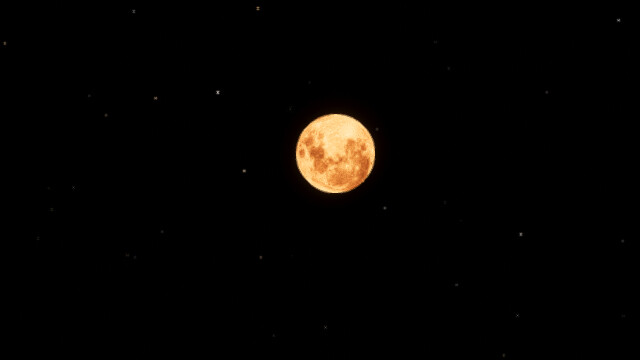
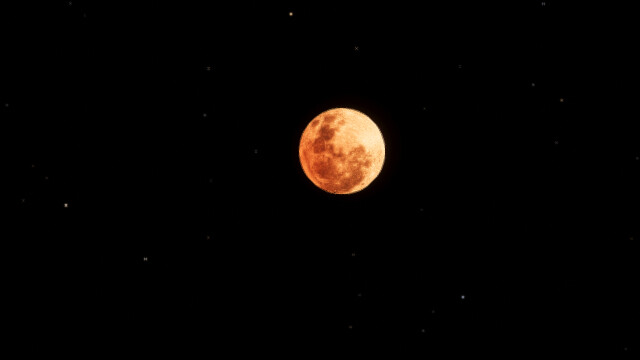
Exposure metering exposes for the centre of the frame (bright edges such as a sunlit limb blow out instead of hiding city lights); external galaxies no longer get the Milky Way's visibility boost; sky photo limited to the galactic band and the Magellanic Clouds; HUD: illuminated fraction, moon phase

Changed region(s): [[0.4375, 0.275, 0.625, 0.55]]

diff --git a/src/ui.js b/src/ui.js
@@ -356,7 +356,17 @@ export class UI {
     if (nav.anchor && nav.altitude < nav.anchor.radius * 30) {
       alt = `<div><b>Altitude</b> ${fmtDist(nav.altitude)} · ${nav.anchor.name}</div>`;
       const ll = this.latLon();
-      if (ll && nav.altitude < nav.anchor.radius * 0.5 && nav.anchor.kind !== 'star') alt += `<div><b>Position</b> ${Math.abs(ll[0]).toFixed(3)}° ${ll[0] >= 0 ? 'N' : 'S'}, ${Math.abs(ll[1]).toFixed(3)}° ${ll[1] >= 0 ? 'E' : 'W'}</div>`;
+      if (ll && nav.altitude < nav.anchor.radius * 0.5 && nav.anchor.kind !== 'star') {
+        alt += `<div><b>Position</b> ${Math.abs(ll[0]).toFixed(3)}° ${ll[0] >= 0 ? 'N' : 'S'}, ${Math.abs(ll[1]).toFixed(3)}° ${ll[1] >= 0 ? 'E' : 'W'}</div>`;
+        const b = nav.anchor, sun = b.system.stars[0];
+        if (sun && b.rotPeriod && b.wrot) {
+          const d = Q.rot(Q.conj(b.wrot), V.norm(V.sub(sun.wpos, b.wpos)));
+          const subLon = Math.atan2(-d[2], d[0]) * 180 / Math.PI;
+          let hr = 12 + ((ll[1] - subLon) * Math.sign(b.rotPeriod)) / 15; hr = ((hr % 24) + 24) % 24;
+          const up = V.norm(V.sub(nav.S, b.wpos)), el = Math.asin(clamp(V.dot(up, V.norm(V.sub(sun.wpos, nav.S))), -1, 1)) * 180 / Math.PI;
+          alt += `<div><b>Local solar time</b> ${String(Math.floor(hr)).padStart(2, '0')}:${String(Math.floor((hr % 1) * 60)).padStart(2, '0')} · sun ${el.toFixed(1)}°</div>`;
+        }
+      }
     }
     if (nav.orbit) { const o = nav.orbit; alt += `<div><b>Orbit</b> ${fmtDist(Math.max(o.peri, 0))} × ${isFinite(o.apo) ? fmtDist(o.apo) : 'escape'} · ${isFinite(o.period) ? (o.period < 7200 ? (o.period / 60).toFixed(1) + ' min' : (o.period / 3600).toFixed(2) + ' h') : ''}</div>`; }
     this.status.innerHTML = `<div><b>${loc}</b></div>${alt}<div><b>Speed</b> ${fmtSpeed(nav.speedNow)} <span class="dim">(set ${fmtSpeed(nav.speed)})</span></div><div class="dim">${Math.round(this.fps)} fps · EV ${(-Math.log2(r.exposure)).toFixed(1)}${r.stats.pending ? ' · loading ' + r.stats.pending : ''}</div>`;
@@ -384,10 +394,26 @@ export class UI {
       else if (t.type === 'star') { const s = t.desc.star; sub = 'Star'; rows = [['Class', s.cls], ['Temperature', Math.round(s.T) + ' K'], ['Mass', (s.mass / C.Msun).toPrecision(3) + ' M<sub>Sun</sub>'], ['Radius', (s.radius / C.Rsun).toPrecision(3) + ' R<sub>Sun</sub>'], ['Luminosity', s.lum.toPrecision(3) + ' L<sub>Sun</sub>'], ['Abs. magnitude', s.MV.toFixed(2)]]; }
       else if (t.type === 'nebula') { const nb = t.neb; sub = ['Emission nebula', 'Planetary nebula', 'Supernova remnant'][nb.type]; rows = [['Diameter', (nb.radius * 2 * 3.2616).toPrecision(3) + ' ly']]; }
       else { const g = t.galaxy; sub = 'Galaxy'; rows = [['Type', g.subtype], ['Diameter', (g.radius * 2 * 3.2616 / 1000).toPrecision(3) + ' kly'], ['Stellar mass', g.mass.toExponential(1) + ' M<sub>Sun</sub>'], ['Stars', '~' + g.nstars.toExponential(1)]]; }
-      this.info.innerHTML = `<h2>${targetName(t)}</h2><div class="sub">${sub}</div><table>${rows.map(r => `<tr><td>${r[0]}</td><td>${r[1]}</td></tr>`).join('')}<tr><td>Distance</td><td id="iDist"></td></tr>${t.type === 'star' ? '<tr><td>App. magnitude</td><td id="iMag"></td></tr>' : ''}</table>`;
+      this.info.innerHTML = `<h2>${targetName(t)}</h2><div class="sub">${sub}</div><table>${rows.map(r => `<tr><td>${r[0]}</td><td>${r[1]}</td></tr>`).join('')}<tr><td>Distance</td><td id="iDist"></td></tr>${t.type === 'star' ? '<tr><td>App. magnitude</td><td id="iMag"></td></tr>' : ''}${t.type === 'body' && t.body.kind !== 'star' && t.body.kind !== 'barycenter' ? '<tr><td>Illuminated</td><td id="iIll"></td></tr>' : ''}</table>`;
     }
     const d = document.getElementById('iDist'); if (d) d.textContent = fmtDist(dist);
     const m = document.getElementById('iMag'); if (m) m.textContent = (t.desc.star.MV + 5 * Math.log10(dist / C.PC) - 5).toFixed(2);
+    const il = document.getElementById('iIll');
+    if (il && t.type === 'body') {
+      // fraction of the disc that is sunlit as seen from here, with the usual phase names for moons
+      const b = t.body, sun = b.system.stars[0];
+      if (sun && b.wpos) {
+        const toS = V.norm(V.sub(sun.wpos, b.wpos)), toC = V.norm(V.mul(nav.relTo(t), -1));
+        const k = (1 + V.dot(toS, toC)) / 2;
+        let name = '';
+        if (b.kind === 'moon' && nav.anchor && nav.anchor === b.parent) {
+          const waxing = V.dot(V.cross(toC, toS), Q.rot(b.parent.wrot, [0, 1, 0])) > 0;
+          name = k > 0.97 ? 'full' : k < 0.03 ? 'new' : k > 0.5 ? (waxing ? 'waxing gibbous' : 'waning gibbous') : (waxing ? 'waxing crescent' : 'waning crescent');
+          if (Math.abs(k - 0.5) < 0.03) name = waxing ? 'first quarter' : 'last quarter';
+        }
+        il.textContent = (k * 100).toFixed(k > 0.995 || k < 0.005 ? 1 : 0) + '%' + (name ? ' · ' + name : '');
+      }
+    }
   }
   label(i) { while (this.labelPool.length <= i) this.labelPool.push(this.labels.appendChild(el('div', 'label'))); return this.labelPool[i]; }
   updateLabels() {

diff --git a/src/render.js b/src/render.js
@@ -561,7 +561,7 @@ export class Renderer {
     // far from any galaxy there is nothing bright: allow much longer exposures so distant galaxies show up
     let deep = 0;
     if (nav.level === 'universe') deep = 1; else if (gal) deep = clamp((V.len(nav.camG()) / gal.radius - 1.3) / 2, 0, 1);
-    this.maxExposure = rcfg.maxExposure * (1 + 25 * deep); this.deep = deep;
+    this.maxExposure = rcfg.maxExposure * (1 + 200 * deep); this.deep = deep;
     // an accretion disk is small and extremely bright: meter on it rather than on the dark sky around it
     this.meterTop = !!(sys && blackHoles.length && blackHoles.some(b => b.accretion && b.dist < b.radius * 400));
     // total solar eclipse in view: expose for the corona, not the darkened sky
@@ -600,11 +600,26 @@ export class Renderer {
     }
     if (!ready) return;
     const ex = this.meterExp || this.exposure;
-    const lum = [];
-    for (let i = 0; i < 64 * 36; i++) { const r = this.meter[i * 4], g = this.meter[i * 4 + 1], b = this.meter[i * 4 + 2]; const l = (0.2126 * r + 0.7152 * g + 0.0722 * b) / ex; lum.push(isFinite(l) ? l : 0); }
-    lum.sort((a, b) => a - b);
-    this.lumHi = lum[Math.floor(lum.length * 0.99)]; this.lumTop = lum[Math.floor(lum.length * 0.996)];
-    this.lumMed = lum[Math.floor(lum.length * 0.5)];
+    // centre-weighted metering: what is in the middle of the frame matters more than slivers at the edges
+    const cells = [], lum0 = new Float32Array(64 * 36);
+    for (let i = 0; i < 64 * 36; i++) {
+      const r = this.meter[i * 4], g = this.meter[i * 4 + 1], b = this.meter[i * 4 + 2]; let l = (0.2126 * r + 0.7152 * g + 0.0722 * b) / ex;
+      if (!isFinite(l)) l = 0;
+      const x = (i % 64) / 63 * 2 - 1, y = Math.floor(i / 64) / 35 * 2 - 1, rr = x * x * 0.6 + y * y;
+      cells.push([l, 0.03 + 0.97 * Math.exp(-rr / 0.12)]); lum0[i] = l;
+    }
+    cells.sort((a, b) => a[0] - b[0]);
+    let wsum = 0; for (const c of cells) wsum += c[1];
+    const q = (f) => { let acc = 0; for (const c of cells) { acc += c[1]; if (acc >= f * wsum) return c[0]; } return cells[cells.length - 1][0]; };
+    const lum = cells.map(c => c[0]);
+    this.lumTop = q(0.996);
+    // expose for what is in the central part of the frame; very bright surroundings only cap it loosely
+    const centre = []; for (let i = 0; i < 64 * 36; i++) { const x = (i % 64) / 63 * 2 - 1, y = Math.floor(i / 64) / 35 * 2 - 1; if (Math.abs(x) < 0.55 && Math.abs(y) < 0.6) centre.push(lum0[i]); }
+    centre.sort((a, b) => a - b);
+    const hiC = centre[Math.floor(centre.length * 0.975)], hiAll = q(0.995);
+    this.lumHi = Math.max(hiC, hiAll * 2.5e-4);
+    let sc = 0; for (const l of centre) sc += l; this.lumAvgC = sc / centre.length;
+    this.lumMed = q(0.5);
     let s = 0; for (const l of lum) s += l; this.lumAvg = s / lum.length;
   }
   adaptExposure(dt) {
@@ -612,7 +627,7 @@ export class Renderer {
     if (!rcfg.autoExposure) target = rcfg.manualExposure;
     else {
       // in intergalactic space the only bright things are small galaxies: meter on the very brightest cells
-      const hi = Math.max((this.deep > 0.05 || this.meterTop ? this.lumTop : this.lumHi) || 0, 1e-12), avg = Math.max(this.lumAvg || 0, 1e-12);
+      const hi = Math.max((this.deep > 0.05 || this.meterTop ? this.lumTop : this.lumHi) || 0, 1e-12), avg = Math.max((this.meterTop ? this.lumAvg : this.lumAvgC) || 0, 1e-12);
       // expose for bright areas, but don't let a large dim scene go black
       target = Math.min(0.7 / hi, 0.16 / avg * 6);
       target = clamp(target, rcfg.minExposure, this.maxExposure || rcfg.maxExposure);

diff --git a/src/sky.js b/src/sky.js
@@ -8,7 +8,7 @@ import { REFRACT_VS } from './planet.js';
 import { CUBE_FACES } from './atmosphere.js';
 import { loadTexture } from './assets.js';
 
-export const skyCfg = { cubeSize: 1024, galBoost: 22, galSteps: 72, starBoost: 1.0, galRange: 1 };
+export const skyCfg = { cubeSize: 1024, galBoost: 22, extBoost: 2.5, galSteps: 72, starBoost: 1.0, galRange: 1 };
 export const GAL_I0 = 2.0e-9;   // central face-on disk surface brightness in units of (solar constant / sr)
 export const SUN_MAG = -26.74;
 
@@ -258,7 +258,8 @@ let galFrame = 0;
 export function drawGalaxies(camU, viewProj, o) {
   init(); galFrame++;
   const p = pGal.use();
-  p.set({ uViewProj: viewProj, uPxPerRad: o.pxPerRad, uScale: GAL_I0 * skyCfg.galBoost * o.exposure, uMaxSteps: skyCfg.galSteps, uNoise3: o.noise3 });
+  // other galaxies get only a small visibility boost: exposure adapts in deep space, and near bright subjects they should vanish
+  p.set({ uViewProj: viewProj, uPxPerRad: o.pxPerRad, uScale: GAL_I0 * skyCfg.extBoost * o.exposure, uMaxSteps: skyCfg.galSteps, uNoise3: o.noise3 });
   gl.enable(gl.BLEND); gl.blendFunc(gl.ONE, gl.ONE); gl.disable(gl.DEPTH_TEST);
   visibleGalaxyCells.length = 0;
   const skip = o.skip;
@@ -354,7 +355,15 @@ void main(){
   float l = atan(-d.z, d.x), b = asin(clamp(d.y, -1., 1.));
   vec2 uv = vec2(0.5 - l/6.2831853, 0.5 - b/3.14159265);
   vec3 c = textureLod(uMap, uv, 0.).rgb;
-  o = vec4(max(c - 0.0017, 0.)*uScale, 1.);
+  // keep the band of the Milky Way and the Local Group galaxies; far from the plane the photo only holds
+  // artefacts of its own (airglow gradients, zodiacal light, planets) which would not move with the real sky
+  float bd = degrees(abs(b));
+  float keep = smoothstep(52., 38., bd);
+  vec3 lmc = vec3(cos(radians(-32.89))*cos(radians(280.47)), sin(radians(-32.89)), -cos(radians(-32.89))*sin(radians(280.47)));
+  vec3 smc = vec3(cos(radians(-44.3))*cos(radians(302.8)), sin(radians(-44.3)), -cos(radians(-44.3))*sin(radians(302.8)));
+  keep = max(keep, smoothstep(cos(radians(9.)), cos(radians(5.)), dot(d, lmc)));
+  keep = max(keep, smoothstep(cos(radians(5.)), cos(radians(3.)), dot(d, smc)));
+  o = vec4(max(c - 0.0017, 0.)*uScale*keep, 1.);
 }`;
 let pMap = null;
 export function initSkyMapProgram() { if (!pMap) pMap = new Program('skymap', FS_VS, MAP_FS); }

diff --git a/src/tour.js b/src/tour.js
@@ -24,7 +24,7 @@ export const STOPS = [
     run: (nav) => { nav.time = iso('2025-03-14T06:30:00Z'); const ui = window.cosmos && window.cosmos.ui; if (ui) ui.goNextEclipse(); } },
   { title: 'Earthrise', text: 'From the lunar surface near the limb, Earth hangs low over the horizon. Earthshine lights the night side of the Moon.',
     run: (nav) => { nav.paused = false; nav.rate = 1; nav.time = iso('2024-05-15T12:00:00Z'); const m = body(nav, 'Moon'); nav.landAt(m, 5, 84, {});
-      nav.onArrive = () => { nav.lookTarget = { type: 'body', body: body(nav, 'Earth') }; }; } },
+      nav.onArrive = () => { nav.lookTarget = { type: 'body', body: body(nav, 'Earth') }; nav.fov = 0.3; }; } },
   { title: 'Valles Marineris, Mars', text: 'MOLA elevation and Viking colour. Fine dust makes the sky butterscotch and the sunset blue.',
     run: (nav) => { nav.landAt(body(nav, 'Mars'), -8, -75, { hour: 16.8 }); } },
   { title: 'Jupiter', text: 'Io, Europa, Ganymede and Callisto are placed from their real orbital theory.',
@@ -32,7 +32,8 @@ export const STOPS = [
   { title: 'Saturn, 2017', text: 'Cassini ring transparency, ring shadow on the globe and the planet\'s shadow on the rings.',
     run: (nav) => { nav.time = iso('2017-06-01T00:00:00Z'); nav.paused = true; nav.goTo(findByName(nav, 'Saturn')); } },
   { title: 'TRAPPIST-1', text: 'Seven Earth-sized planets around an ultracool dwarf 12 parsecs away, with their measured orbits and sizes.',
-    run: (nav) => { nav.paused = false; nav.goTo(findByName(nav, 'TRAPPIST-1')); } },
+    run: (nav) => { nav.paused = false; const t = findByName(nav, 'TRAPPIST-1'); nav.goTo(t);
+      nav.onArrive = () => { const sys = nav.system; const p = sys && sys.find('TRAPPIST-1 e'); if (p) { nav.goTo({ type: 'body', body: p }, { dist: p.radius * 2.6 }); nav.onArrive = () => { nav.lookTarget = { type: 'body', body: p }; }; } }; } },
   { title: 'Orion Nebula', text: 'A stellar nursery 412 parsecs from the Sun, ray marched as a volume.',
     run: (nav) => { nav.goTo(findByName(nav, 'Orion Nebula')); } },
   { title: 'Sagittarius A*', text: 'The black hole at the centre of the Milky Way. Light bends around it; the disk is Doppler beamed.',
